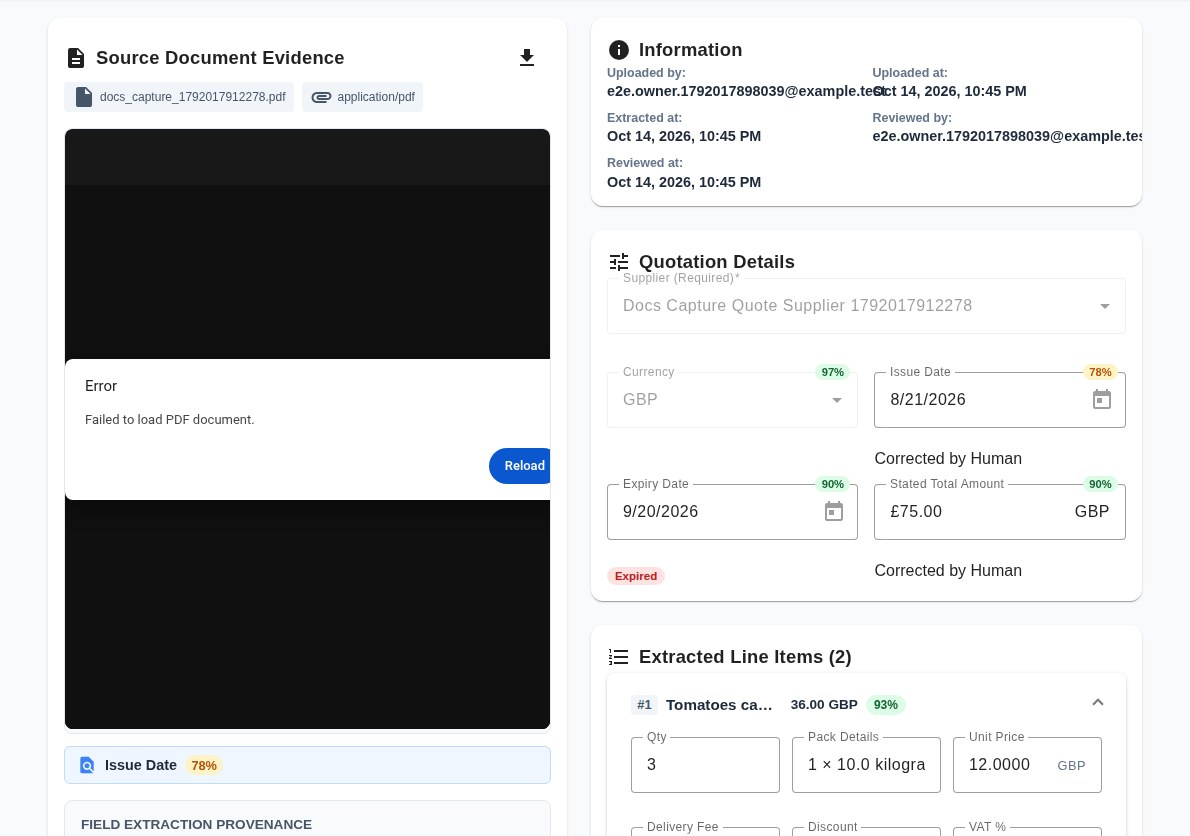
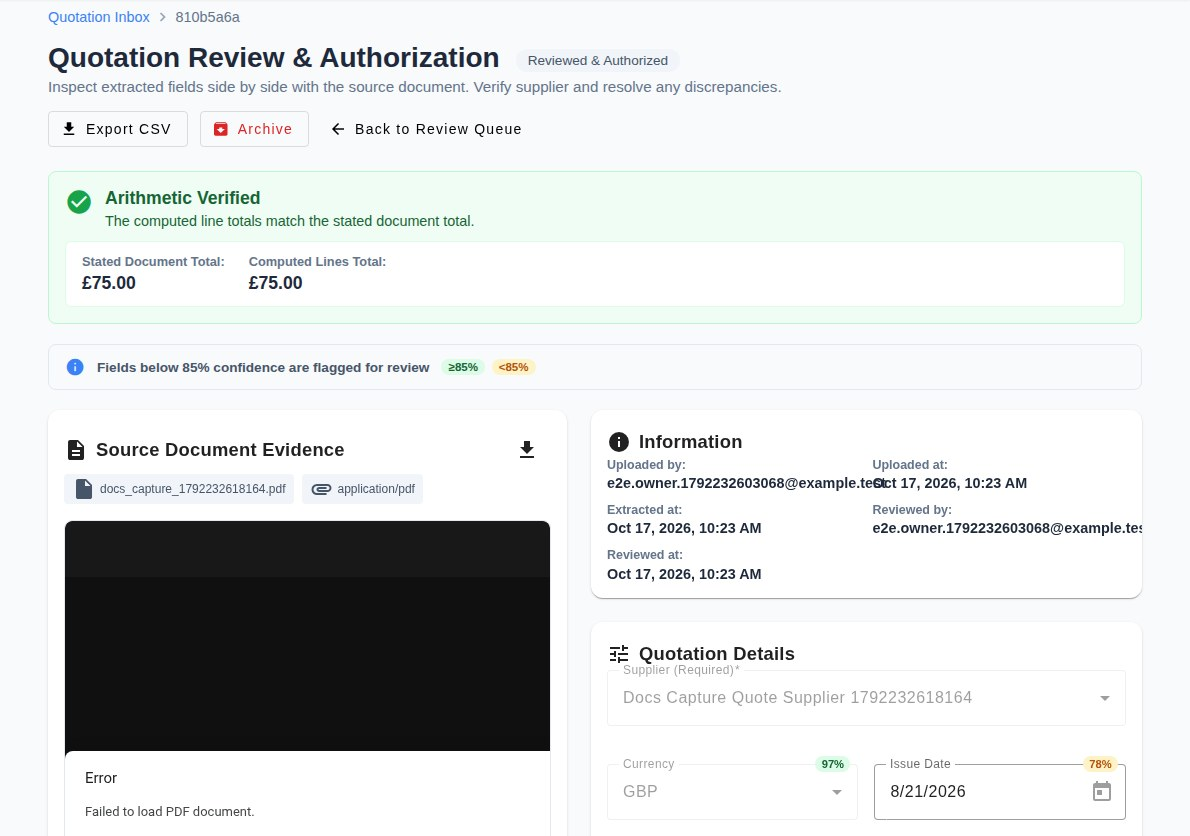
docs(review): flagged-fields panel + blocked-message guide; regenerated 08b screenshot; lint fix; empty-currency fallback

diff --git a/apps/web/src/app/features/quotations/quotation-review/quotation-review.component.ts b/apps/web/src/app/features/quotations/quotation-review/quotation-review.component.ts
@@ -155,8 +155,8 @@ export class QuotationReviewComponent implements OnInit, OnDestroy {
   readonly pendingQuotationCurrency = signal<string | undefined>(undefined);
   readonly effectiveQuotationCurrency = computed(() => {
     const q = this.quotation();
-    return this.pendingQuotationCurrency() ?? q?.currency ?? q?.lines[0]?.unit_price?.currency ??
-      this.pendingNewLines()[0]?.unit_price_currency ?? this.session.homeCurrency() ?? 'USD';
+    return this.pendingQuotationCurrency() ?? (q?.currency || q?.lines[0]?.unit_price?.currency ||
+      this.pendingNewLines()[0]?.unit_price_currency || this.session.homeCurrency() || 'USD');
   });
   readonly reviewerNotes = signal<string>('');
   readonly isRequote = signal<boolean>(false);
@@ -1249,7 +1249,6 @@ export class QuotationReviewComponent implements OnInit, OnDestroy {
   addNewLine(): void {
     const text = this.newLineText().trim();
     if (!text) return;
-    const q = this.quotation();
     const currency = this.effectiveQuotationCurrency();
     const newLine: NewQuotationLine = {
       original_text: text,

diff --git a/docs/user/user-documentation.md b/docs/user/user-documentation.md
@@ -341,17 +341,20 @@ After AI extraction finishes, each quotation lands in the review queue. Open a r
 | 1 | **Breadcrumb** | "Quotation Inbox › {id}" — click to return to the queue. The visible ID is shortened; the full quotation UUID remains in the URL. |
 | 2 | **Action bar** | Always includes Export CSV (download extracted header + lines) and Back to Review Queue. Users with write access also see Archive. Retry Extraction appears only while the quotation is `Extracted`, `In Review`, or `Refused`; it is hidden after the quotation is reviewed. Create Re-Quote appears before authorization and is hidden once the quotation reaches `Reviewed & Authorized`. |
 | 3 | **Arithmetic status banner** | Green "Arithmetic Verified" when line subtotals reconcile with the stated total (after applying any inferred document-level VAT), or an amber "Arithmetic Discrepancy Detected" banner showing both figures side by side when they don't, with a checkbox to proceed anyway with an acknowledgement. |
-| 4 | **Attention-required navigation** | Counts and lets you step through fields flagged for review (low confidence or extraction warnings) with **Previous/Next Flagged Field** buttons and the Alt+N / Alt+P keyboard shortcuts. |
-| 5 | **Confidence legend** | An info bar explaining the 85% confidence threshold, with green (≥85%) and amber (<85%) badge examples, so you know what triggers a flag before you start reviewing fields. |
-| 6 | **Source document evidence panel** | The original uploaded document evidence shown alongside the extraction results, with source metadata and a download button for the original file via a time-limited secure URL. The original filename, including Arabic characters, is shown and used for downloads. Renderable formats show the document preview controls; structured CSV/XLSX uploads show the secure file evidence and extracted fields. |
-| 7 | **Quotation details form** | Editable header fields: supplier, currency, issue date, expiry date, and stated total. The supplier field is a dropdown loaded from the workspace supplier list, with a small **Add a supplier** link to create a missing supplier manually. If the supplier list is completely empty, an empty-state message also links directly to supplier creation. When no supplier is selected and the quotation has an extracted vendor name, the page can offer to create that supplier directly even if other suppliers already exist. If the extracted vendor resembles an existing supplier, a supplier-match banner appears below the dropdown — see below. Each field shows its confidence score. If the document does not show which currency it is in, ProcurePilot does not guess: the currency is left empty, the quotation is sent to review with the reason **Currency Not Found**, and your workspace's home currency appears only as a low-confidence suggestion that you must confirm. |
-| 8 | **Expiry badge** | Next to the Expiry Date field, a "Valid for N days" (or "Expired") badge makes quote validity visible at a glance instead of a plain date. |
-| 9 | **Extracted line items table** | One row per line, expandable to show quantity, pack details, unit price, delivery fee, discount, VAT %, and line total. Add lines with **+ Add Line Item**. Remove an existing editable line with the trash icon in that line's header; removal is staged and only applied when you save corrections. The computed total recalculates live as you edit any field or add/remove a line. |
-| 10 | **Field provenance panel** | For the field currently in focus, shows the extraction method, model version, source page, original AI value, and (if edited) the corrected value and who corrected it — labelled "Corrected by Human" on any field you've changed. |
-| 11 | **Reviewer Notes** | A free-text field for recording why a correction was made or leaving context for whoever authorizes the quotation. Saved together with corrections. |
-| 12 | **Audit Trail** | An expandable panel at the bottom logging every action taken on this quotation — upload, extraction, field corrections, status changes, matching setup, automatic match acceptance, and reviewer match decisions — with actor and timestamp. |
-| 13 | **Save Corrections** | Persist manual edits without changing the quotation's status — you can return later. |
-| 14 | **Confirm & Authorize Quotation** | Marks the quotation as reviewed. Matching setup then shows loading, ready, or a retryable error; when ready, **Continue to Product Matching** opens only this quotation's matching group. A confirmation dialog states plainly that authorization **cannot be undone**. |
+| 4 | **Attention-required navigation** | Counts and lets you step through fields still needing a decision (low confidence or extraction warnings) with **Previous/Next Flagged Field** buttons and the Alt+N / Alt+P keyboard shortcuts. Fields you have corrected or confirmed as-is no longer count. |
+| 5 | **Flagged fields panel** | Appears above the two-column layout while any field blocks authorization. Each row shows the field name and extracted value, a **Go to field** link when the field has an inline control, and **Confirm as-is** to accept the extracted value without editing. Selecting a supplier resolves a low-confidence extracted supplier name, so it no longer blocks authorization. The system's currency suggestion never blocks authorization; a quotation with no currency cannot be authorized until a currency is chosen. |
+| 6 | **Confidence legend** | An info bar explaining the 85% confidence threshold, with green (≥85%) and amber (<85%) badge examples, so you know what triggers a flag before you start reviewing fields. |
+| 7 | **Source document evidence panel** | The original uploaded document evidence shown alongside the extraction results, with source metadata and a download button for the original file via a time-limited secure URL. The original filename, including Arabic characters, is shown and used for downloads. Renderable formats show the document preview controls; structured CSV/XLSX uploads show the secure file evidence and extracted fields. |
+| 8 | **Quotation details form** | Editable header fields: supplier, currency, issue date, expiry date, and stated total. The supplier field is a dropdown loaded from the workspace supplier list, with a small **Add a supplier** link to create a missing supplier manually. If the supplier list is completely empty, an empty-state message also links directly to supplier creation. When no supplier is selected and the quotation has an extracted vendor name, the page can offer to create that supplier directly even if other suppliers already exist. If the extracted vendor resembles an existing supplier, a supplier-match banner appears below the dropdown — see below. Each field shows its confidence score. If the document does not show which currency it is in, ProcurePilot does not guess: the currency is left empty, the quotation is sent to review with the reason **Currency Not Found**, and your workspace's home currency appears only as a low-confidence suggestion that you must confirm. |
+| 9 | **Expiry badge** | Next to the Expiry Date field, a "Valid for N days" (or "Expired") badge makes quote validity visible at a glance instead of a plain date. |
+| 10 | **Extracted line items table** | One row per line, expandable to show quantity, pack details, unit price, delivery fee, discount, VAT %, and line total. Add lines with **+ Add Line Item**. Remove an existing editable line with the trash icon in that line's header; removal is staged and only applied when you save corrections. The computed total recalculates live as you edit any field or add/remove a line. |
+| 11 | **Field provenance panel** | For the field currently in focus, shows the extraction method, model version, source page, original AI value, and (if edited) the corrected value and who corrected it — labelled "Corrected by Human" on any field you've changed. Arabic and other right-to-left original values display in their own direction. |
+| 12 | **Reviewer Notes** | A free-text field for recording why a correction was made or leaving context for whoever authorizes the quotation. Saved together with corrections. |
+| 13 | **Audit Trail** | An expandable panel at the bottom logging every action taken on this quotation — upload, extraction, field corrections, status changes, matching setup, automatic match acceptance, and reviewer match decisions — with actor and timestamp. |
+| 14 | **Save Corrections** | Persist manual edits without changing the quotation's status — you can return later. |
+| 15 | **Confirm & Authorize Quotation** | Marks the quotation as reviewed. Matching setup then shows loading, ready, or a retryable error; when ready, **Continue to Product Matching** opens only this quotation's matching group. A confirmation dialog states plainly that authorization **cannot be undone**. |
+
+**If authorization is blocked:** the page shows **Select a supplier before authorizing this quotation.** when no supplier is selected, **Resolve or acknowledge the arithmetic mismatch before confirming.** when a discrepancy is unacknowledged, **Review or confirm the flagged extraction fields before confirming.** while flagged fields remain unresolved (the first blocking field is highlighted and scrolled into view), **Set the quotation currency before confirming.** when currency is missing, and **This quotation is not in a state that can be confirmed.** when the quotation has already been actioned.
 
 **Quote dates:** extraction reads the supplier's issue and expiry dates itself. It accepts Arabic-Indic digits and month names in English or Arabic (Egyptian and Levantine names), and reads numeric dates in your workspace region's convention: DD/MM/YYYY for EG, SA, AE, KW, QA, BH, OM, JO, and GB workspaces, MM/DD/YYYY for US workspaces. When the day and month are both 12 or less (for example `03/04/2026`), the date is read in the region's convention and the field is flagged low-confidence so you check it. When a date can't be read at all, the field stays empty, the quotation enters the review queue as **Date Not Recognised**, and the original wording appears under the date picker as "Text in document: …". You must enter a valid date before that blocker clears; a correction that isn't a valid calendar date is rejected.
 
